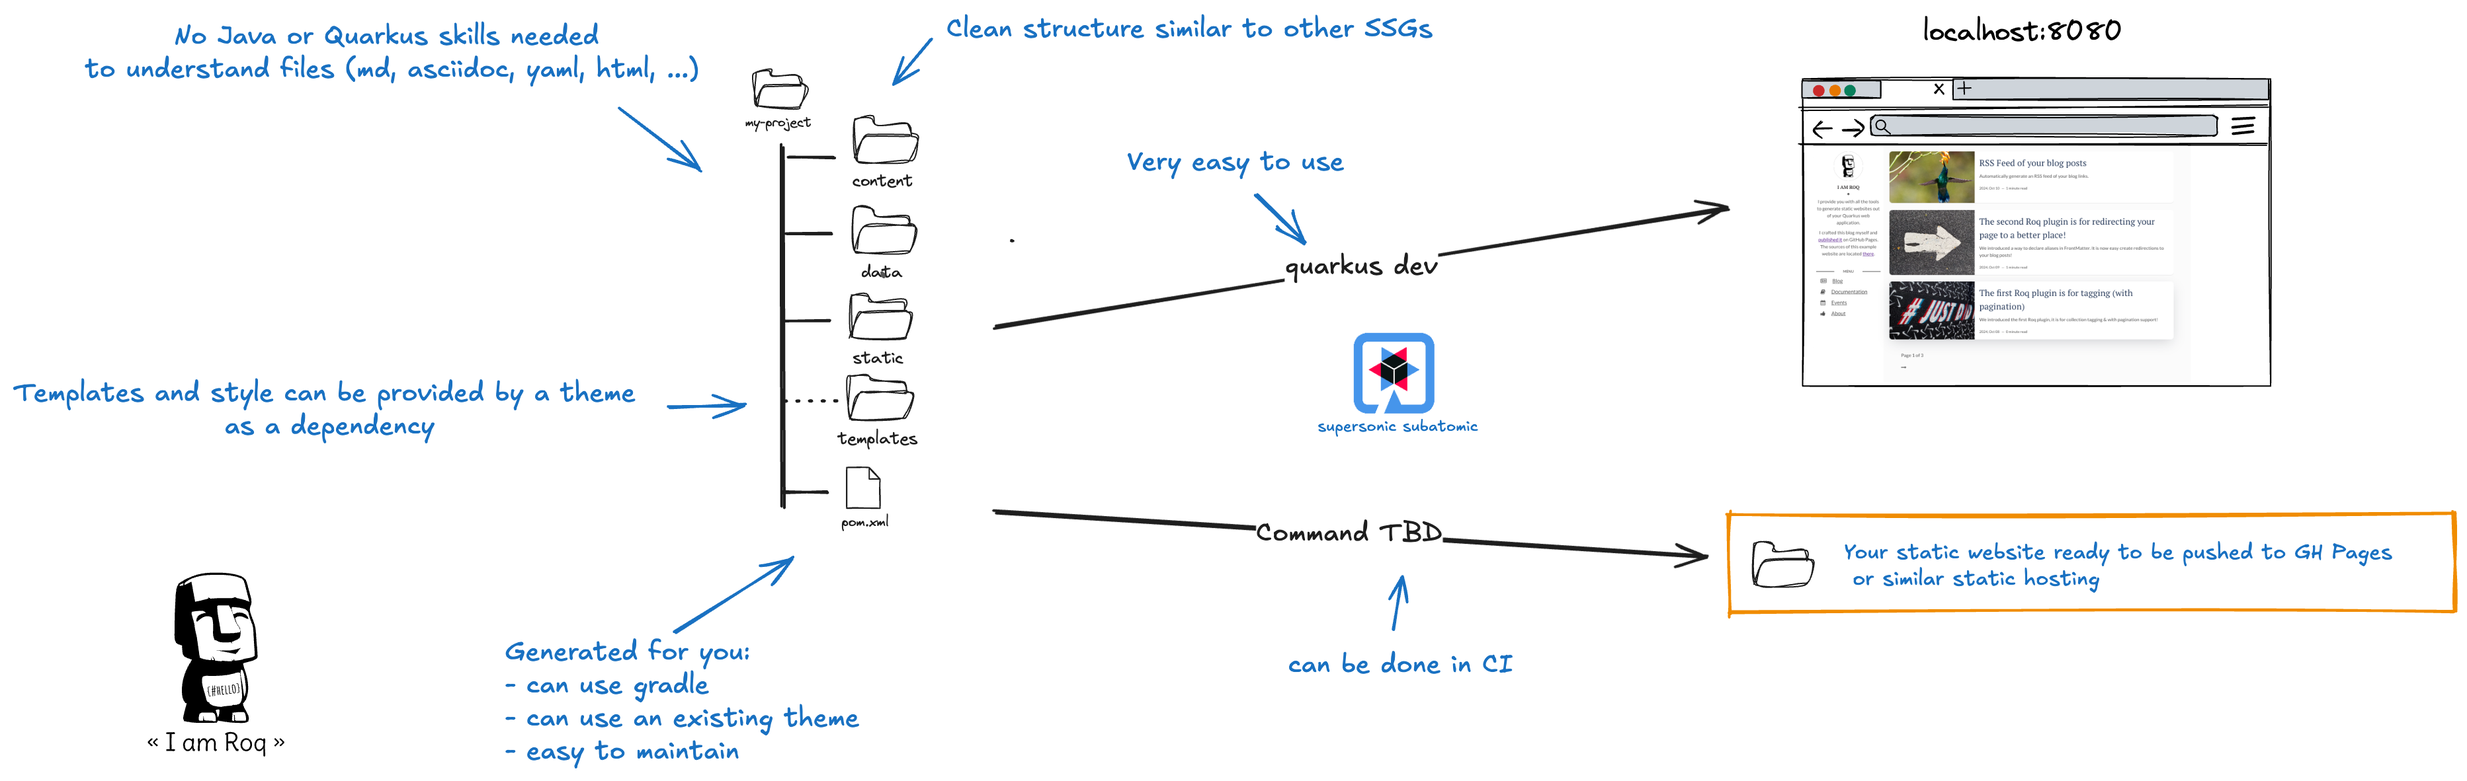
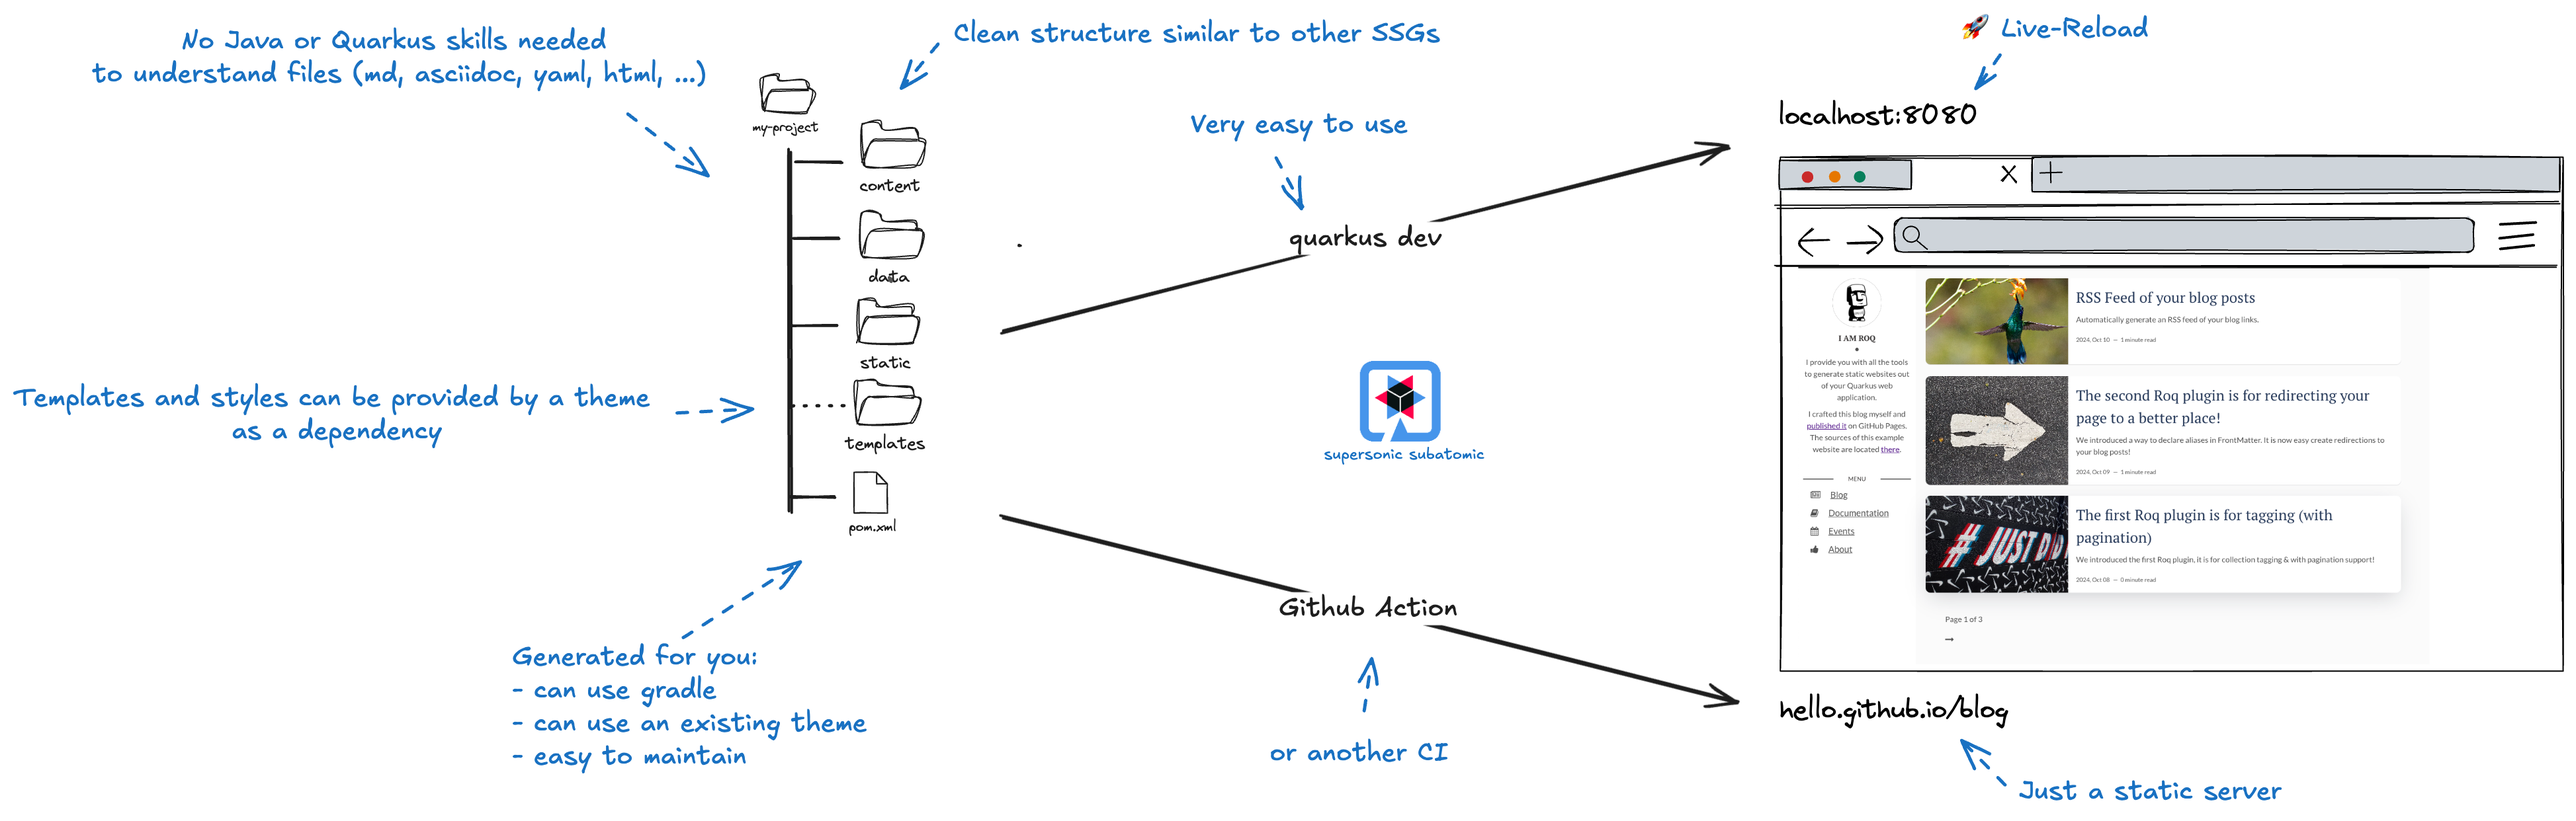
Fix live-reload

diff --git a/theme/default/src/main/resources/templates/partials/roq-default/head.html b/theme/default/src/main/resources/templates/partials/roq-default/head.html
@@ -6,16 +6,12 @@
 {#seo page site /}
 {#rss site /}
 
-<!-- Edit site and author settings in `_config.yml` to make the social details your own -->
 <base href="{site.url.root.relative}">
 <meta http-equiv="X-UA-Compatible" content="IE=edge">
 <meta name="viewport" content="width=device-width, initial-scale=1, maximum-scale=1">
 <link rel="shortcut icon" href="{site.imagesDirUrl.resolve('site-icon.svg')}" type="image/svg+xml">
-<!-- Chrome, Firefox OS and Opera -->
 <meta name="theme-color" content="#263959">
-<!-- Windows Phone -->
 <meta name="msapplication-navbutton-color" content="#263959">
-<!-- iOS Safari -->
 <meta name="apple-mobile-web-app-status-bar-style" content="#263959">
 <link rel="stylesheet" href="{site.url.fromRoot('/static/bundle/roq.css')}">
 

diff --git a/roq-frontmatter/deployment/src/main/java/io/quarkiverse/roq/frontmatter/deployment/scan/RoqFrontMatterScanProcessor.java b/roq-frontmatter/deployment/src/main/java/io/quarkiverse/roq/frontmatter/deployment/scan/RoqFrontMatterScanProcessor.java
@@ -42,6 +42,7 @@ import io.quarkiverse.roq.util.PathUtils;
 import io.quarkus.deployment.annotations.BuildProducer;
 import io.quarkus.deployment.annotations.BuildStep;
 import io.quarkus.deployment.builditem.HotDeploymentWatchedFileBuildItem;
+import io.quarkus.paths.PathVisit;
 import io.quarkus.qute.deployment.TemplatePathBuildItem;
 import io.quarkus.qute.deployment.TemplateRootBuildItem;
 import io.quarkus.runtime.configuration.ConfigurationException;
@@ -150,8 +151,14 @@ public class RoqFrontMatterScanProcessor {
         }
 
         roqProject.consumePathFromRoqResourceDir(config.contentDir(),
-                l -> scanContent(mapper, config, markups, watch, dataModifications, items, l.getPath()));
-        roqProject.consumePathFromRoqResourceDir(config.staticDir(), l -> scanStatic(config, staticFilesProducer, l.getPath()));
+                l -> {
+                    watchResourceDir(watch, l);
+                    scanContent(mapper, config, markups, watch, dataModifications, items, l.getPath());
+                });
+        roqProject.consumePathFromRoqResourceDir(config.staticDir(), l -> {
+            watchResourceDir(watch, l);
+            scanStatic(config, staticFilesProducer, l.getPath());
+        });
         return items;
     }
 
@@ -165,12 +172,19 @@ public class RoqFrontMatterScanProcessor {
             if (!Files.isDirectory(root)) {
                 return;
             }
+
             // We scan Qute templates manually outside of resources for now
-            scanTemplates(config, watch, templatePathProducer, root.resolve(TEMPLATES_DIR));
-            scanLayouts(mapper, config, markups, watch, dataModifications, items, root.resolve(TEMPLATES_DIR),
+            final Path templatesDir = root.resolve(TEMPLATES_DIR);
+            watchDirectory(templatesDir, watch);
+            scanTemplates(config, watch, templatePathProducer, templatesDir);
+            scanLayouts(mapper, config, markups, watch, dataModifications, items, templatesDir,
                     TemplateType.LAYOUT);
-            scanContent(mapper, config, markups, watch, dataModifications, items, root.resolve(config.contentDir()));
-            scanStatic(config, staticFilesProducer, root.resolve(config.staticDir()));
+            final Path contentDir = root.resolve(config.contentDir());
+            watchDirectory(contentDir, watch);
+            scanContent(mapper, config, markups, watch, dataModifications, items, contentDir);
+            final Path staticDir = root.resolve(config.staticDir());
+            watchDirectory(staticDir, watch);
+            scanStatic(config, staticFilesProducer, staticDir);
         };
     }
 
@@ -202,6 +216,7 @@ public class RoqFrontMatterScanProcessor {
         if (!Files.isDirectory(contentDir)) {
             return;
         }
+
         // scan content
         final Map<String, ConfiguredCollection> collections = config.collections().stream()
                 .collect(Collectors.toMap(ConfiguredCollection::id, Function.identity()));
@@ -212,10 +227,10 @@ public class RoqFrontMatterScanProcessor {
                     .forEach(p -> {
                         final String dirName = contentDir.relativize(p).getName(0).toString();
                         if (collections.containsKey(dirName)) {
-                            addBuildItem(contentDir, items, mapper, config, markups, dataModifications, watch,
+                            addBuildItem(contentDir, items, mapper, config, markups, dataModifications,
                                     collections.get(dirName), TemplateType.DOCUMENT_PAGE).accept(p);
                         } else {
-                            addBuildItem(contentDir, items, mapper, config, markups, dataModifications, watch, null,
+                            addBuildItem(contentDir, items, mapper, config, markups, dataModifications, null,
                                     TemplateType.NORMAL_PAGE).accept(p);
                         }
                     });
@@ -224,6 +239,30 @@ public class RoqFrontMatterScanProcessor {
                     "Was not possible to scan content files on location %s".formatted(contentDir), e);
         }
 
+    }
+
+    private static void watchDirectory(Path dir, BuildProducer<HotDeploymentWatchedFileBuildItem> watch) {
+        if (!Files.isDirectory(dir)) {
+            return;
+        }
+        try (var stream = Files.walk(dir)) {
+            stream.forEach(f -> {
+                watch.produce(HotDeploymentWatchedFileBuildItem.builder().setLocation(f.toAbsolutePath().toString()).build());
+                if (LOGGER.isDebugEnabled()) {
+                    LOGGER.debugf("Watching %s for changes", f);
+                }
+            });
+        } catch (IOException e) {
+            throw new RuntimeException(e);
+        }
+    }
+
+    private static void watchResourceDir(BuildProducer<HotDeploymentWatchedFileBuildItem> watch, PathVisit l) {
+        final String dir = l.getRelativePath();
+        watch.produce(HotDeploymentWatchedFileBuildItem.builder().setLocationPredicate(p -> p.startsWith(dir)).build());
+        if (LOGGER.isDebugEnabled()) {
+            LOGGER.debugf("Watching resources %s for changes", dir);
+        }
     }
 
     private static void scanLayouts(YAMLMapper mapper,
@@ -245,7 +284,7 @@ public class RoqFrontMatterScanProcessor {
         try (Stream<Path> stream = Files.walk(layoutsDir)) {
             final Consumer<Path> layoutsConsumer = addBuildItem(templatesRoot, items, mapper, config, markups,
                     dataModifications,
-                    watch, null,
+                    null,
                     type);
             stream
                     .filter(Files::isRegularFile)
@@ -271,7 +310,6 @@ public class RoqFrontMatterScanProcessor {
         if (!Files.isDirectory(templatesRoot)) {
             return;
         }
-
         // scan templates
         try (Stream<Path> stream = Files.walk(templatesRoot)) {
             stream
@@ -284,8 +322,6 @@ public class RoqFrontMatterScanProcessor {
                         }
                         // add Qute templates
                         try {
-                            watch.produce(HotDeploymentWatchedFileBuildItem.builder().setLocation(p.toAbsolutePath().toString())
-                                    .build());
                             final String link = toUnixPath(templatesRoot.relativize(p).toString());
                             templatePathProducer.produce(TemplatePathBuildItem.builder()
                                     .path(link)
@@ -309,11 +345,9 @@ public class RoqFrontMatterScanProcessor {
             RoqSiteConfig config,
             Map<String, QuteMarkupSection> markups,
             List<RoqFrontMatterDataModificationBuildItem> dataModifications,
-            BuildProducer<HotDeploymentWatchedFileBuildItem> watch,
             ConfiguredCollection collection,
             TemplateType type) {
         return file -> {
-            watch.produce(HotDeploymentWatchedFileBuildItem.builder().setLocation(file.toAbsolutePath().toString()).build());
             String sourcePath = toUnixPath(root.relativize(file).toString());
             String quteTemplatePath = ROQ_GENERATED_QUTE_PREFIX + removeExtension(sourcePath)
                     + resolveOutputExtension(markups, sourcePath);
